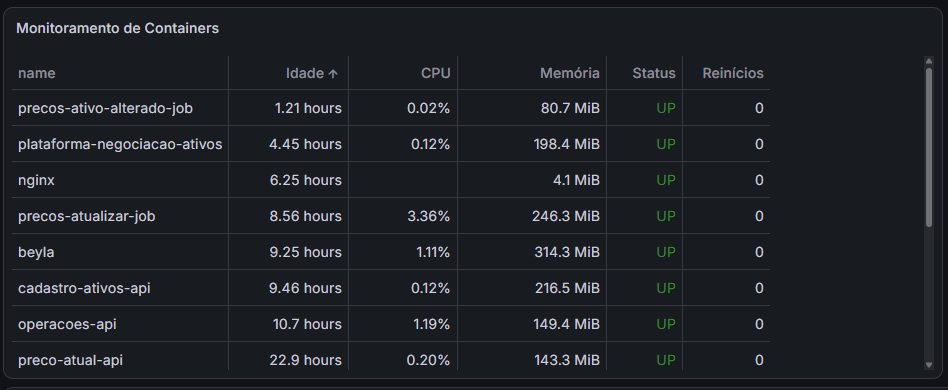
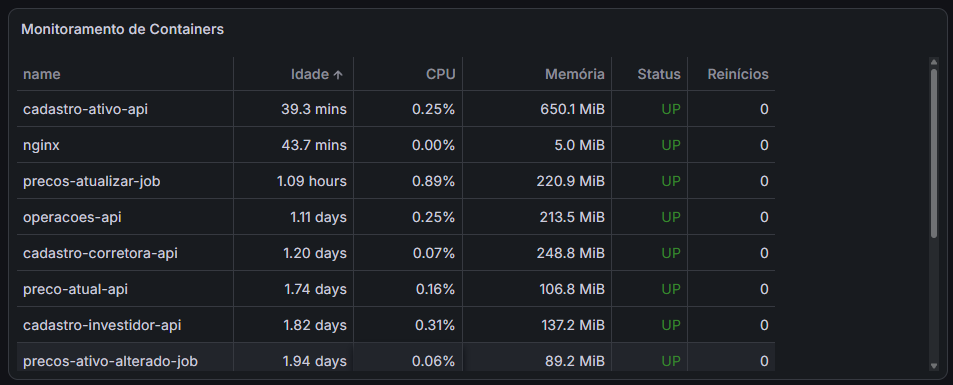
Atualizando documentações

diff --git a/contratos-microsservicos/contratos-microsservicos-dominio-operações.md b/contratos-microsservicos/contratos-microsservicos-dominio-operações.md
@@ -15,12 +15,12 @@ Os microsserviços do domínio de operações da plataforma expõe um endpoint R
 ### Estrutura da Requisição da Operação
 ```json
 {
-  "tipo": "COMPRA",
-  "codigo_ativo": "ITAU3",
+  "tipo": "Venda",
+  "codigo_ativo": "ITUB4",
   "codigo_corretora": 2,
   "codigo_investidor": 1,
-  "quantidade": 10,
-  "preco_unitario": 38.75
+  "quantidade": 1,
+  "preco_unitario": 25.48
 }
 ```
 ### Estrutura da Resposta da Operação de Sucesso
@@ -42,17 +42,17 @@ Os microsserviços do domínio de operações da plataforma expõe um endpoint R
 ### Estrutura da Resposta da Operação de Falha
 ```json
 {
-  "id": 1,
-  "tipo": "COMPRA",
-  "codigo_ativo": "ITAU3",
+  "id": 22,
+  "tipo": "Venda",
+  "codigo_ativo": "ITUB4",
   "codigo_corretora": 2,
   "codigo_investidor": 1,
-  "quantidade": 10,
-  "preco_unitario": 38.75,
-  "preco_total": 387.50,
-  "data_hora_criacao": "2026-07-17T10:30:00:00",
+  "quantidade": 1,
+  "preco_unitario": 25.480000,
+  "preco_total": 25.480000,
+  "data_hora_criacao": "2026-07-19T20:05:48",
   "status": "Falha",
-  "motivo_falha": "Ativo não apto para negociação"
+  "motivo_falha": "Ativo não encontrado: ITUB4"
 }
 ```
 

diff --git a/contratos-microsservicos/contratos-microsservicos-dominio-precificação.md b/contratos-microsservicos/contratos-microsservicos-dominio-precificação.md
@@ -15,10 +15,10 @@ Os microsserviços do domínio de precificação da plataforma expõem um endpoi
 ### Estrutura da Resposta
 ```json
 {
-  "id": 1,
-  "codigo_ativo": "PETR4",
-  "preco": 35.50,
-  "data_hora_atualizacao": "2026-07-17T10:30:00",
+  "id": 36,
+  "codigo_ativo": "ITUB4",
+  "preco": 25.484767,
+  "data_hora_atualizacao": "2026-07-18T20:35:10",
   "atualizado": true
 }
 ```

diff --git a/contratos-microsservicos/contratos-microsservicos-dominio-cadastros.md b/contratos-microsservicos/contratos-microsservicos-dominio-cadastros.md
@@ -10,7 +10,7 @@ Os microsserviços do domínio de cadastros da plataforma expõem endpoints REST
 
 Responsável pelo gerenciamento dos ativos financeiros disponíveis para negociação.
 
-**Base Path:** `/cadastro-ativos-api/v1/ativos`
+**Base Path:** `/cadastro-ativo-api/v1/cadastros/ativo`
 
 
 | Método | Endpoint | Descrição                         |
@@ -65,7 +65,7 @@ Responsável pelo gerenciamento dos ativos financeiros disponíveis para negocia
 
 Responsável pelo gerenciamento das corretoras participantes da plataforma.
 
-**Base Path:** `/cadastro-corretora-api/v1/corretoras`
+**Base Path:** `/cadastro-corretora-api/v1/cadastros/corretora`
 
 | Método | Endpoint | Descrição                          |
 |--------|----------|------------------------------------|
@@ -114,7 +114,7 @@ Responsável pelo gerenciamento das corretoras participantes da plataforma.
 ## 3. API de Investidores
    Responsável pelo gerenciamento dos investidores que realizam operações na plataforma.
 
-**Base Path:** `/cadastro-investidor-api/v1/investidores`
+**Base Path:** `/cadastro-investidor-api/v1/cadastros/investidor`
 
 | Método | Endpoint | Descrição |
 |--------|----------|-----------|